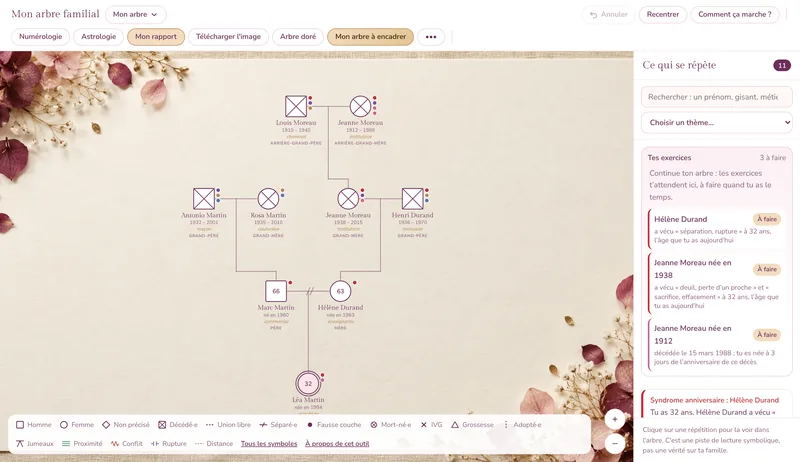
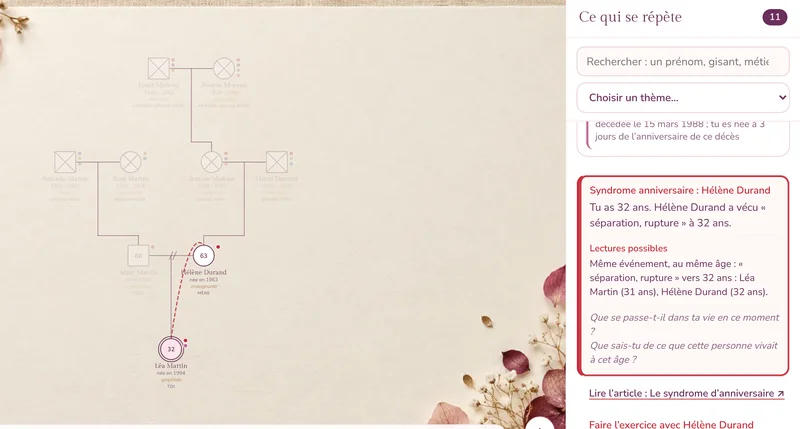
Page praticien : zoom lisible sur une répétition, écriture inclusive harmonisée, bouton collant sur téléphone, prix en dollars canadiens (#266)
Claude-Session: https://claude.ai/code/session_013ZTKg9MAWnXCkEjcoBkvNJ

diff --git a/espace-praticien.html b/espace-praticien.html
@@ -145,8 +145,22 @@
     .p-ecole p{color:var(--prune-doux);margin:0 auto 1.2rem}
     @media (max-width:960px){.p-tete .conteneur.p-tete-grille{grid-template-columns:1fr;padding:3rem 0}.p-ecran-tete{transform:none}.p-ligne,.p-ligne-inverse{grid-template-columns:1fr;gap:1.6rem}.p-ligne-inverse .p-ecran{order:0}.p-annuaire{grid-template-columns:1fr;padding:1.8rem}}
     @media (max-width:560px){.p-tete .conteneur.p-tete-grille{padding:2.4rem 0}.p-tel{border-width:4px;border-radius:22px}.p-tel-decale{margin-top:1.6rem}.p-annuaire .btn{width:100%;justify-content:center;box-sizing:border-box}}
+    .p-zoom-zone{position:relative;margin:0 0 2.2rem}
+    .p-zoom{position:absolute;right:-1.2rem;bottom:-2.2rem;width:min(20rem,52%);background:#fff;border-radius:16px;padding:.5rem;box-shadow:0 22px 50px rgba(46,19,56,.3);transform:rotate(1.5deg)}
+    .p-zoom img{display:block;width:100%;height:auto;border-radius:12px}
+    .p-zoom span{position:absolute;top:-.75rem;left:1rem;background:var(--prune);color:#fff;font:600 .7rem var(--texte);letter-spacing:.06em;text-transform:uppercase;padding:.3rem .65rem;border-radius:99px}
+    .p-devise{display:block;margin-bottom:.6rem;font-family:var(--texte)}
+    .p-devise .devise-note{display:block;font-size:.75rem;color:var(--prune-doux);margin-top:.3rem;max-width:12rem}
+    .p-colle{display:none}
+    @media (max-width:760px){
+      .p-zoom-zone{margin-bottom:0}
+      .p-zoom{position:relative;right:auto;bottom:auto;width:auto;margin:-1.4rem .6rem 0;transform:none}
+      .p-colle{display:block;position:fixed;left:12px;right:84px;bottom:14px;z-index:60;transform:translateY(140%);transition:transform .25s ease}
+      .p-colle.visible{transform:none}
+      .p-colle .btn{display:flex;justify-content:center;width:100%;box-sizing:border-box;box-shadow:0 10px 28px rgba(46,19,56,.3);padding:.9rem 1rem;font-size:.95rem}
+    }
   </style>
-  <script type="application/ld+json">[{"@context": "https://schema.org", "@type": "BreadcrumbList", "itemListElement": [{"@type": "ListItem", "position": 1, "name": "Accueil", "item": "https://genesolia.fr/"}, {"@type": "ListItem", "position": 2, "name": "Espace praticien", "item": "https://genesolia.fr/espace-praticien.html"}]}, {"@context": "https://schema.org", "@type": "FAQPage", "mainEntity": [{"@type": "Question", "name": "Genesolia est-il un outil thérapeutique ?", "acceptedAnswer": {"@type": "Answer", "text": "Non. Genesolia est un outil de travail et une grille de lecture symbolique de l’histoire familiale. Il t’aide à dessiner et à explorer un génosociogramme avec tes client·es, mais ne pose aucun diagnostic et ne remplace pas un avis médical ou psychologique. L’accompagnement reste le tien."}}, {"@type": "Question", "name": "Comment fonctionne le tarif fondateur ?", "acceptedAnswer": {"@type": "Answer", "text": "Si tu ouvres ton cabinet avant le 1er janvier 2027, tu paieras 19 € par mois au lieu de 24 € quand tu passeras à l’abonnement, et ce prix reste le tien tant que ton abonnement continue. Il n’y a rien d’autre à remplir : l’ouverture du cabinet suffit."}}, {"@type": "Question", "name": "Mes client·es voient-ils mes notes ?", "acceptedAnswer": {"@type": "Answer", "text": "Jamais. Le lien de partage montre l’arbre sans tes notes ni tes repères. Quand tu remets l’arbre, seules les personnes et leurs liens sont copiés. Si une cliente te demande ce que tu as noté sur elle, tu peux exporter tes notes en PDF."}}, {"@type": "Question", "name": "Comment mes client·es gardent-ils leur arbre ?", "acceptedAnswer": {"@type": "Answer", "text": "Quand le travail est terminé, tu coches « Travail terminé » dans le dossier et tu envoies le lien de partage. Ta cliente peut alors télécharger son arbre en image ou en PDF, ou le garder dans son propre espace Genesolia, gratuit. Tu peux décocher à tout moment : ce qui a déjà été gardé reste chez elle."}}, {"@type": "Question", "name": "Mes client·es doivent-ils créer un compte ?", "acceptedAnswer": {"@type": "Answer", "text": "Non pour regarder leur arbre : le lien suffit. Oui, gratuit, seulement pour le garder dans leur espace à la fin."}}, {"@type": "Question", "name": "Que se passe-t-il à la fin de l’essai ?", "acceptedAnswer": {"@type": "Answer", "text": "Tes dossiers restent consultables. Pour créer de nouveaux dossiers et de nouveaux liens de partage, il faut l’abonnement."}}, {"@type": "Question", "name": "Où sont hébergées les données de mes client·es ?", "acceptedAnswer": {"@type": "Answer", "text": "En Europe (Irlande). Les notes de séance sont chiffrées avant d’être enregistrées, et un dossier se supprime en un clic à la demande de ta cliente."}}]}]</script>
+  <script type="application/ld+json">[{"@context": "https://schema.org", "@type": "BreadcrumbList", "itemListElement": [{"@type": "ListItem", "position": 1, "name": "Accueil", "item": "https://genesolia.fr/"}, {"@type": "ListItem", "position": 2, "name": "Espace praticien", "item": "https://genesolia.fr/espace-praticien.html"}]}, {"@context": "https://schema.org", "@type": "FAQPage", "mainEntity": [{"@type": "Question", "name": "Genesolia est-il un outil thérapeutique ?", "acceptedAnswer": {"@type": "Answer", "text": "Non. Genesolia est un outil de travail et une grille de lecture symbolique de l’histoire familiale. Il t’aide à dessiner et à explorer un génosociogramme avec tes client·es, mais ne pose aucun diagnostic et ne remplace pas un avis médical ou psychologique. L’accompagnement reste le tien."}}, {"@type": "Question", "name": "Comment fonctionne le tarif fondateur ?", "acceptedAnswer": {"@type": "Answer", "text": "Si tu ouvres ton cabinet avant le 1er janvier 2027, tu paieras 19 € par mois au lieu de 24 € quand tu passeras à l’abonnement, et ce prix reste le tien tant que ton abonnement continue. Il n’y a rien d’autre à remplir : l’ouverture du cabinet suffit."}}, {"@type": "Question", "name": "Est-ce que mes client·es voient mes notes ?", "acceptedAnswer": {"@type": "Answer", "text": "Jamais. Le lien de partage montre l’arbre sans tes notes ni tes repères. Quand tu remets l’arbre, seules les personnes et leurs liens sont copiés. Si l’on te demande ce que tu as noté, tu peux exporter tes notes en PDF."}}, {"@type": "Question", "name": "Comment se passe la remise de l’arbre ?", "acceptedAnswer": {"@type": "Answer", "text": "Quand le travail est terminé, tu coches « Travail terminé » dans le dossier et tu envoies le lien de partage. Sur ce lien, l’arbre peut alors être téléchargé en image ou en PDF, ou gardé dans un espace Genesolia personnel et gratuit. Tu peux décocher à tout moment : ce qui a déjà été gardé reste dans l’espace où il a été copié."}}, {"@type": "Question", "name": "Faut-il un compte à mes client·es ?", "acceptedAnswer": {"@type": "Answer", "text": "Non pour regarder leur arbre : le lien suffit. Oui, gratuit, seulement pour le garder dans leur espace à la fin."}}, {"@type": "Question", "name": "Que se passe-t-il à la fin de l’essai ?", "acceptedAnswer": {"@type": "Answer", "text": "Tes dossiers restent consultables. Pour créer de nouveaux dossiers et de nouveaux liens de partage, il faut l’abonnement."}}, {"@type": "Question", "name": "Où sont hébergées les données de mes client·es ?", "acceptedAnswer": {"@type": "Answer", "text": "En Europe (Irlande). Les notes de séance sont chiffrées avant d’être enregistrées, et un dossier se supprime en un clic à la demande de ton·ta client·e."}}]}]</script>
 </head>
 <body class="nouveau">
   <header data-entete></header>
@@ -175,11 +189,11 @@
           <p>Ces images viennent de l’outil, avec une famille fictive.</p>
         </div>
         <div class="p-ligne">
-          <figure class="p-ecran"><img class="" src="assets/images/praticien/repetitions-1600.webp" srcset="assets/images/praticien/repetitions-800.webp 800w, assets/images/praticien/repetitions-1600.webp 1600w" sizes="(max-width: 760px) 100vw, 50vw" width="1600" height="923" alt="Le panneau « Ce qui se répète » à côté de l’arbre : syndrome anniversaire, prénoms, deuils, avec les questions à explorer" loading="lazy"></figure>
+          <figure class="p-zoom-zone"><div class="p-ecran"><img src="assets/images/praticien/repetitions-1600.webp" srcset="assets/images/praticien/repetitions-800.webp 800w, assets/images/praticien/repetitions-1600.webp 1600w" sizes="(max-width: 760px) 100vw, 50vw" width="1600" height="859" alt="Une répétition sélectionnée : le lien entre Léa et sa mère Hélène est tracé en pointillés dans l’arbre" loading="lazy"></div><div class="p-zoom"><img src="assets/images/praticien/repetition-zoom-700.webp" srcset="assets/images/praticien/repetition-zoom-350.webp 350w, assets/images/praticien/repetition-zoom-700.webp 700w" sizes="(max-width: 760px) 90vw, 20rem" width="700" height="659" alt="Zoom sur la carte : Syndrome anniversaire, Hélène Durand. Tu as 32 ans, Hélène Durand a vécu « séparation, rupture » à 32 ans. Lectures possibles et questions à explorer." loading="lazy"><span>Zoom sur une répétition</span></div></figure>
           <div class="p-ligne-texte">
             <p class="a-etiq">Ce qui se répète</p>
             <h3>Les répétitions ressortent pendant la saisie</h3>
-            <p>Dates anniversaires, âges, prénoms qui reviennent, places dans la fratrie, deuils, métiers : plus de 25 pistes sont repérées automatiquement. Chacune est reliée aux personnes concernées dans l’arbre, avec des questions pour en parler en séance.</p>
+            <p>Dates anniversaires, âges, prénoms qui reviennent, places dans la fratrie, deuils, métiers : plus de 25 pistes sont repérées automatiquement. Un clic sur une répétition la trace dans l’arbre, avec les lectures possibles et des questions pour en parler en séance.</p>
             <p>Tu gagnes le temps du repérage, et tu gardes le tien pour l’écoute.</p>
           </div>
         </div>
@@ -194,14 +208,14 @@
         </div>
         <div class="p-ligne">
           <div class="p-tels">
-            <figure class="p-tel"><img class="" src="assets/images/praticien/telephone-640.webp" srcset="assets/images/praticien/telephone-320.webp 320w, assets/images/praticien/telephone-640.webp 640w" sizes="(max-width: 760px) 45vw, 18rem" width="640" height="1275" alt="Sur téléphone, le dossier d’une cliente : la personne au centre, ses parents, son couple, ses frères et sœurs" loading="lazy"></figure>
-            <figure class="p-tel p-tel-decale"><img class="" src="assets/images/praticien/partage-640.webp" srcset="assets/images/praticien/partage-320.webp 320w, assets/images/praticien/partage-640.webp 640w" sizes="(max-width: 760px) 45vw, 18rem" width="640" height="1385" alt="Le lien de partage reçu par la cliente, avec les boutons « Garder mon arbre dans mon espace » et « Télécharger mon arbre »" loading="lazy"></figure>
+            <figure class="p-tel"><img class="" src="assets/images/praticien/telephone-640.webp" srcset="assets/images/praticien/telephone-320.webp 320w, assets/images/praticien/telephone-640.webp 640w" sizes="(max-width: 760px) 45vw, 18rem" width="640" height="1275" alt="Sur téléphone, un dossier client·e : la personne au centre, ses parents, son couple, ses frères et sœurs" loading="lazy"></figure>
+            <figure class="p-tel p-tel-decale"><img class="" src="assets/images/praticien/partage-640.webp" srcset="assets/images/praticien/partage-320.webp 320w, assets/images/praticien/partage-640.webp 640w" sizes="(max-width: 760px) 45vw, 18rem" width="640" height="1385" alt="Le lien de partage reçu par un·e client·e, avec les boutons « Garder mon arbre dans mon espace » et « Télécharger mon arbre »" loading="lazy"></figure>
           </div>
           <div class="p-ligne-texte">
             <p class="a-etiq">Sur téléphone, et pour tes client·es</p>
-            <h3>L’arbre suit tes client·es, et finit chez eux</h3>
+            <h3>L’arbre suit tes client·es, jusque dans leur espace</h3>
             <p>Sur téléphone, l’arbre se lit d’un coup d’œil : la personne au centre, sa famille autour, une case à toucher pour ajouter quelqu’un.</p>
-            <p>Entre deux séances, tes client·es regardent leur arbre par un lien. Quand le travail est terminé, ils le téléchargent ou le gardent dans leur espace Genesolia.</p>
+            <p>Entre deux séances, tes client·es regardent leur arbre par un lien. Quand le travail est terminé, l’arbre se télécharge ou se garde dans leur espace Genesolia.</p>
           </div>
         </div>
       </div>
@@ -238,7 +252,7 @@
               <ul>
                 <li>Dans le dossier, tu coches <b>« Travail terminé »</b>.</li>
                 <li>Sur le lien, deux boutons apparaissent : <b>télécharger</b> l’arbre (image ou PDF) et <b>le garder dans son espace</b> Genesolia, gratuit.</li>
-                <li>L’arbre gardé leur appartient : ils peuvent le compléter seuls, sans passer par toi.</li>
+                <li>L’arbre gardé leur appartient, et se complète sans passer par toi.</li>
               </ul>
             </div>
           </div>
@@ -298,7 +312,7 @@
           <div>
             <p class="a-etiq">Bientôt</p>
             <h2>L’annuaire des praticien·nes Genesolia</h2>
-            <p>Des particuliers dessinent leur arbre sur Genesolia, puis cherchent quelqu’un pour les accompagner. L’annuaire leur présentera les cabinets abonnés, près de chez eux ou en visio. <b>Les cabinets ouverts avant le 1er janvier 2027 y seront présentés en premier.</b></p>
+            <p>Des particuliers dessinent leur arbre sur Genesolia, puis cherchent quelqu’un pour les accompagner. L’annuaire leur présentera les cabinets abonnés, près de chez soi ou en visio. <b>Les cabinets ouverts avant le 1er janvier 2027 y seront présentés en premier.</b></p>
             <p class="p-annuaire-plus">Arrivent aussi : ton logo et tes couleurs sur le rapport, et un avantage sur Le Cercle à offrir à tes client·es.</p>
           </div>
           <a class="btn btn-plein" href="praticien.html">Ouvrir mon cabinet</a>
@@ -313,7 +327,7 @@
           <h2>Un abonnement simple</h2>
         </div>
         <div class="p-tarif">
-          <p class="p-prix"><b>24 €</b><small>par mois, sans engagement</small><small>ou 240 € l’année (2 mois offerts)</small></p>
+          <p class="p-prix"><span class="p-devise" data-devise-ici></span><b>24 €</b><small>par mois, sans engagement</small><small>ou 240 € l’année (2 mois offerts)</small></p>
           <div>
             <ul>
               <li><b>30 jours d’essai</b>, sans carte, avec tes vrai·es client·es</li>
@@ -340,7 +354,7 @@
           <li><b>Notes chiffrées</b> : tes notes de séance sont chiffrées avant d’être enregistrées. Elles ne sont jamais montrées dans le lien de partage, ni copiées dans l’espace de tes client·es.</li>
           <li><b>L’arbre remis seulement si tu le décides</b> : tant que tu n’as pas coché « Travail terminé », le lien reste en lecture seule.</li>
           <li><b>Pas de données de santé</b> : l’Espace praticien est un outil de psychogénéalogie et d’accompagnement. Il n’est pas fait pour noter des informations médicales.</li>
-          <li><b>Suppression à la demande</b> : un dossier et ses notes se suppriment en un clic, dès que ta cliente le demande.</li>
+          <li><b>Suppression à la demande</b> : un dossier et ses notes se suppriment en un clic, dès que ton·ta client·e le demande.</li>
         </ul>
       </div>
     </section>
@@ -360,16 +374,26 @@
         <h2 style="margin-bottom:1.4rem">Questions fréquentes</h2>
         <details><summary>Genesolia est-il un outil thérapeutique ?</summary><p>Non. Genesolia est un outil de travail et une grille de lecture symbolique de l’histoire familiale. Il t’aide à dessiner et à explorer un génosociogramme avec tes client·es, mais ne pose aucun diagnostic et ne remplace pas un avis médical ou psychologique. L’accompagnement reste le tien.</p></details>
         <details><summary>Comment fonctionne le tarif fondateur ?</summary><p>Si tu ouvres ton cabinet avant le 1er janvier 2027, tu paieras 19 € par mois au lieu de 24 € quand tu passeras à l’abonnement, et ce prix reste le tien tant que ton abonnement continue. Il n’y a rien d’autre à remplir : l’ouverture du cabinet suffit.</p></details>
-        <details><summary>Mes client·es voient-ils mes notes ?</summary><p>Jamais. Le lien de partage montre l’arbre sans tes notes ni tes repères. Quand tu remets l’arbre, seules les personnes et leurs liens sont copiés. Si une cliente te demande ce que tu as noté sur elle, tu peux exporter tes notes en PDF.</p></details>
-        <details><summary>Comment mes client·es gardent-ils leur arbre ?</summary><p>Quand le travail est terminé, tu coches « Travail terminé » dans le dossier et tu envoies le lien de partage. Ta cliente peut alors télécharger son arbre en image ou en PDF, ou le garder dans son propre espace Genesolia, gratuit. Tu peux décocher à tout moment : ce qui a déjà été gardé reste chez elle.</p></details>
-        <details><summary>Mes client·es doivent-ils créer un compte ?</summary><p>Non pour regarder leur arbre : le lien suffit. Oui, gratuit, seulement pour le garder dans leur espace à la fin.</p></details>
+        <details><summary>Est-ce que mes client·es voient mes notes ?</summary><p>Jamais. Le lien de partage montre l’arbre sans tes notes ni tes repères. Quand tu remets l’arbre, seules les personnes et leurs liens sont copiés. Si l’on te demande ce que tu as noté, tu peux exporter tes notes en PDF.</p></details>
+        <details><summary>Comment se passe la remise de l’arbre ?</summary><p>Quand le travail est terminé, tu coches « Travail terminé » dans le dossier et tu envoies le lien de partage. Sur ce lien, l’arbre peut alors être téléchargé en image ou en PDF, ou gardé dans un espace Genesolia personnel et gratuit. Tu peux décocher à tout moment : ce qui a déjà été gardé reste dans l’espace où il a été copié.</p></details>
+        <details><summary>Faut-il un compte à mes client·es ?</summary><p>Non pour regarder leur arbre : le lien suffit. Oui, gratuit, seulement pour le garder dans leur espace à la fin.</p></details>
         <details><summary>Que se passe-t-il à la fin de l’essai ?</summary><p>Tes dossiers restent consultables. Pour créer de nouveaux dossiers et de nouveaux liens de partage, il faut l’abonnement.</p></details>
-        <details><summary>Où sont hébergées les données de mes client·es ?</summary><p>En Europe (Irlande). Les notes de séance sont chiffrées avant d’être enregistrées, et un dossier se supprime en un clic à la demande de ta cliente.</p></details>
+        <details><summary>Où sont hébergées les données de mes client·es ?</summary><p>En Europe (Irlande). Les notes de séance sont chiffrées avant d’être enregistrées, et un dossier se supprime en un clic à la demande de ton·ta client·e.</p></details>
         <p class="p-cta" style="margin-top:1.6rem"><a class="btn btn-plein" href="praticien.html">Ouvrir mon cabinet · 30 jours d’essai</a></p>
       </div>
     </section>
   </main>
+  <div class="p-colle" aria-hidden="true"><a class="btn btn-plein" href="praticien.html" tabindex="-1">Ouvrir mon cabinet · 30 jours d’essai</a></div>
   <footer data-pied></footer>
   <script src="assets/site.js"></script>
+  <script>
+  /* Sur téléphone : le bouton « Ouvrir mon cabinet » reste en bas de l'écran une fois le haut de page passé, et s'efface sur les autres boutons et le pied de page */
+  (function () {
+    var c = document.querySelector('.p-colle'); if (!c || !('IntersectionObserver' in window)) return;
+    var vus = new Set(), cibles = [].slice.call(document.querySelectorAll('.p-tete, footer, main a.btn-plein[href="praticien.html"]'));
+    var io = new IntersectionObserver(function (l) { l.forEach(function (e) { if (e.isIntersecting) vus.add(e.target); else vus.delete(e.target); }); var on = !vus.size; c.classList.toggle('visible', on); c.setAttribute('aria-hidden', String(!on)); c.querySelector('a').tabIndex = on ? 0 : -1; });
+    cibles.forEach(function (t) { io.observe(t); });
+  })();
+  </script>
 </body>
 </html>

diff --git a/assets/site.js b/assets/site.js
@@ -1518,8 +1518,8 @@ window.GENESOLIA_IMPRESSION = {
    (3,15 % + 0,25 €) et conversion (2 %) inclus, au taux du 21/10/2026 (1 € = 1,58 $ CA), arrondis vers le haut. À revoir tous les 3 mois.
    Seules les pages qui parlent des offres sont converties ; l'arbre imprimé reste en euros (livraison en France). */
 (function () {
-  var PAGES = ['abonnement.html', 'tarifs.html', 'essai.html', 'login.html', 'mon-suivi.html', 'index.html', '', 'la-demarche.html', 'mon-mois.html', 'mon-guide.html', 'cercle.html', 'seance-offerte.html', 'genosociogramme.html', 'parcours.html'];
-  var CAD = { '29': '49', '24': '40', '249': '419', '10': '17', '27': '45', '24,90': '41', '60': '108', '99': '169', '20,75': '34,92', '0': '0' };
+  var PAGES = ['espace-praticien.html', 'praticien.html', 'abonnement.html', 'tarifs.html', 'essai.html', 'login.html', 'mon-suivi.html', 'index.html', '', 'la-demarche.html', 'mon-mois.html', 'mon-guide.html', 'cercle.html', 'seance-offerte.html', 'genosociogramme.html', 'parcours.html'];
+  var CAD = { '29': '49', '24': '40', '249': '419', '10': '17', '27': '45', '24,90': '41', '60': '108', '99': '169', '20,75': '34,92', '19': '32', '240': '409', '0': '0' };   /* 19 et 240 : Espace praticien */
   var CLE = 'genesolia-devise';
   var page = location.pathname.split('/').pop();
   function auCanada() { try { return /^America\/(Toronto|Montreal|Vancouver|Edmonton|Winnipeg|Regina|Halifax|St_Johns|Moncton|Glace_Bay|Goose_Bay|Whitehorse|Dawson|Dawson_Creek|Yellowknife|Iqaluit|Rankin_Inlet|Resolute|Cambridge_Bay|Inuvik|Swift_Current|Fort_Nelson|Creston|Atikokan|Blanc-Sablon|Nipigon|Thunder_Bay|Rainy_River|Pangnirtung)$/.test(Intl.DateTimeFormat().resolvedOptions().timeZone); } catch (e) { return false; } }

diff --git a/assets/version.js b/assets/version.js
@@ -4,7 +4,7 @@
    Elle est ajoutée en ?v=… à tous les scripts, contenus et feuilles de style de mon-suivi-mois.html et mon-carnet.html :
    le navigateur recharge alors les nouveaux fichiers au lieu de garder les anciens.
    Ce fichier lui-même est toujours rechargé (les deux pages le demandent avec ?t=heure). sw.js reste « réseau d'abord ». */
-window.GENESOLIA_V = '2026-10-21u';
+window.GENESOLIA_V = '2026-10-21v';
 window.genesoliaVersion = function (src) { return src + (src.indexOf('?') < 0 ? '?' : '&') + 'v=' + encodeURIComponent(window.GENESOLIA_V); };
 /* Écrit les balises pendant la lecture de la page (même ordre, même effet que des balises <script> ou <link> ordinaires) */
 window.genesoliaEcrire = function (liste) {
